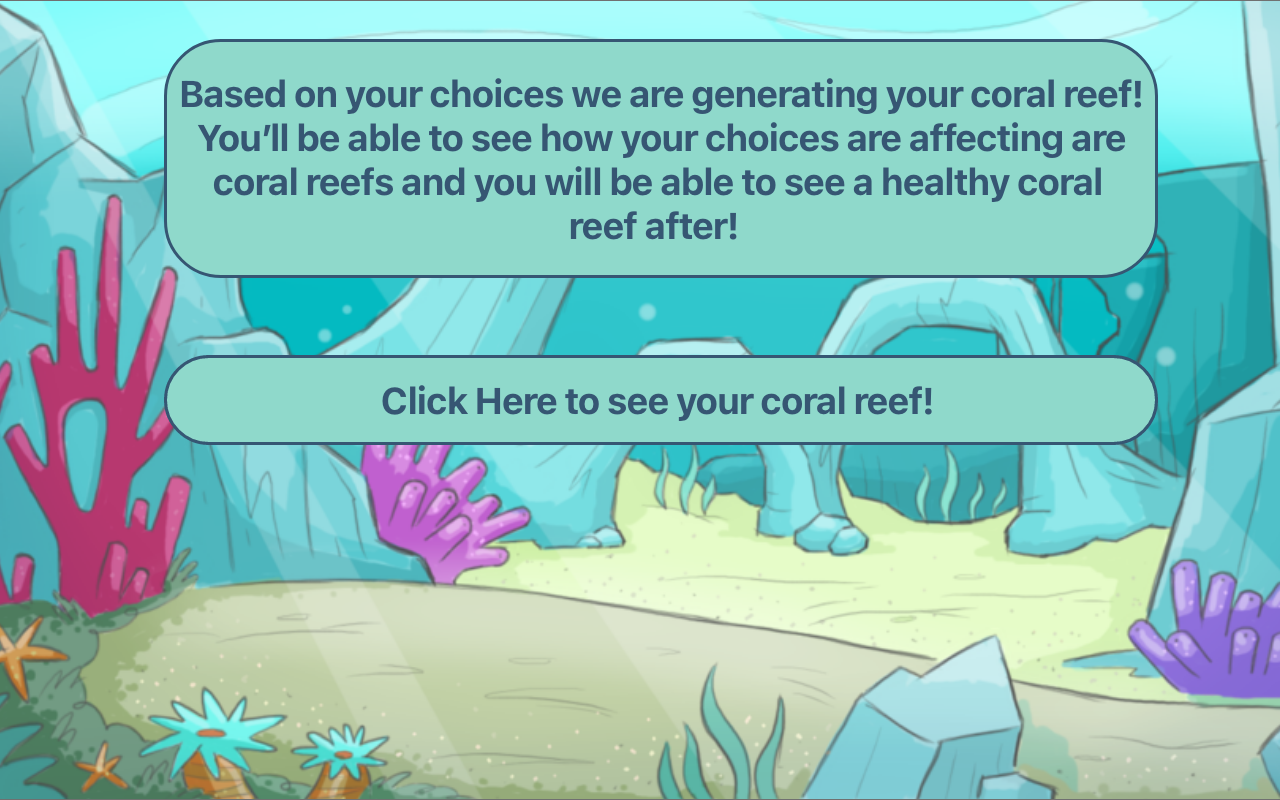
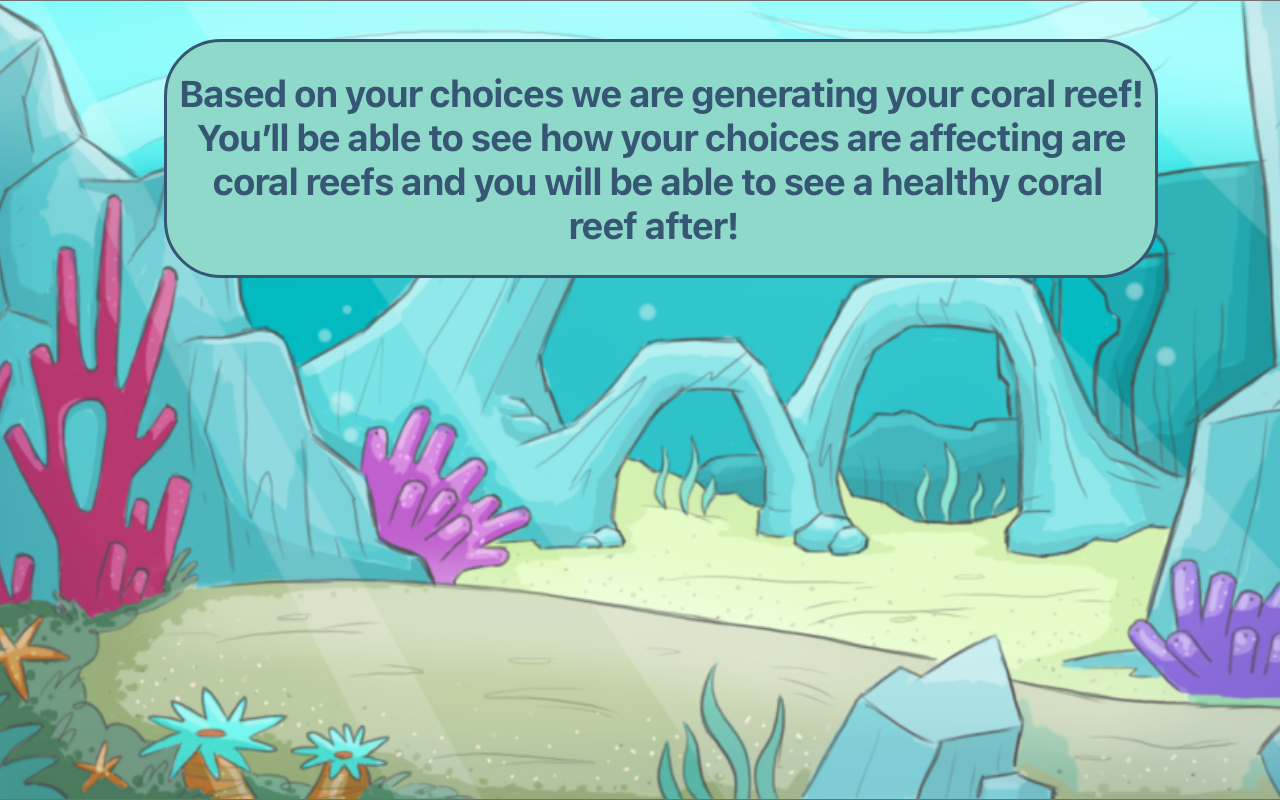
have to add animals next but all buttons are working

Changed region(s): [[0.125, 0.4375, 0.9062, 0.5625]]

diff --git a/sketch.js b/sketch.js
@@ -15,11 +15,17 @@ var images = [];
 var drawFunction;
 
 // keeps track of answers 
-var bleached; 
+var bleached = 0; 
 
 
-// A Clickable object
+//Clickable objects
 var beginButton;
+var coralReefButton; 
+var goToCoralReefButton; 
+var coralImportanceButton; 
+var bleachingButton;
+var helpButton; 
+var backButton;  
 
 // load all images into an array
 function preload() {
@@ -35,6 +41,10 @@ function preload() {
   images[9] = loadImage('assets/Bleached Reef.png');
   images[10] = loadImage('assets/Somewhat bleached reef.png');
   images[11] = loadImage('assets/Healthy reef.png');
+  images[12] = loadImage('assets/Coral Reef.png');
+  images[13] = loadImage('assets/Coral reef importance.png');
+  images[14] = loadImage('assets/Bleaching.png');
+  images[15] = loadImage('assets/How can I help.png');
 }
 
 function setup() {
@@ -43,12 +53,208 @@ function setup() {
   drawFunction = start; 
 
   makeBeginButton();
+  makeCoralReefButton(); 
+  makeGoToCoralReefButton(); 
+  makeCoralImportanceButton();
+  makeBleachingButton();
+  makeHelpButton(); 
+  makeBackButton(); 
 }
 
 // Just draw the button
 function draw() {
   background(128);
   drawFunction(); 
+}
+
+function makeBackButton() {
+
+  // Create the clickable object
+  backButton = new Clickable();
+  
+  backButton.text = "Back";
+  backButton.textColor = "#365673"; 
+  backButton.textSize = 25; 
+
+
+  // // This would give it a white background
+  backButton.color = "#8FD9CB";
+
+  // // set width + height to image size
+  backButton.width = 100;
+  backButton.height = 40;
+
+  // // set to middle of screen, since we are drawing from the corners, we need to make an
+  // // additional calculation here
+  backButton.locate( width * (1/32) , height * (15/16));
+
+  // // Clickable callback functions, defined below
+  backButton.onPress = goToCoralReefButtonPressed;
+  backButton.onHover = beginButtonHover;
+  backButton.onOutside = beginButtonOnOutside;
+}
+
+function makeHelpButton() {
+
+  // Create the clickable object
+  helpButton = new Clickable();
+  
+  helpButton.text = "How can I help?";
+  helpButton.textColor = "#365673"; 
+  helpButton.textSize = 25; 
+
+
+  // // This would give it a white background
+  helpButton.color = "#8FD9CB";
+
+  // // set width + height to image size
+  helpButton.width = 400;
+  helpButton.height = 62;
+
+  // // set to middle of screen, since we are drawing from the corners, we need to make an
+  // // additional calculation here
+  helpButton.locate( width * (23/32) , height * (7/8));
+
+  // // Clickable callback functions, defined below
+  helpButton.onPress = helpButtonPressed;
+  helpButton.onHover = beginButtonHover;
+  helpButton.onOutside = beginButtonOnOutside;
+}
+
+helpButtonPressed = function () {
+  drawFunction = helpPage; 
+}
+
+function makeBleachingButton() {
+
+  // Create the clickable object
+  bleachingButton = new Clickable();
+  
+  bleachingButton.text = "What is bleaching?";
+  bleachingButton.textColor = "#365673"; 
+  bleachingButton.textSize = 25; 
+
+
+  // // This would give it a white background
+  bleachingButton.color = "#8FD9CB";
+
+  // // set width + height to image size
+  bleachingButton.width = 400;
+  bleachingButton.height = 62;
+
+  // // set to middle of screen, since we are drawing from the corners, we need to make an
+  // // additional calculation here
+  bleachingButton.locate( width * (12/32) , height * (7/8));
+
+  // // Clickable callback functions, defined below
+  bleachingButton.onPress = bleachingButtonPressed;
+  bleachingButton.onHover = beginButtonHover;
+  bleachingButton.onOutside = beginButtonOnOutside;
+}
+
+bleachingButtonPressed = function () {
+  drawFunction = whatIsBleaching; 
+}
+
+function makeCoralImportanceButton() {
+
+  // Create the clickable object
+  coralImportanceButton = new Clickable();
+  
+  coralImportanceButton.text = "Why are coral reefs important?";
+  coralImportanceButton.textColor = "#365673"; 
+  coralImportanceButton.textSize = 25; 
+
+
+  // // This would give it a white background
+  coralImportanceButton.color = "#8FD9CB";
+
+  // // set width + height to image size
+  coralImportanceButton.width = 400;
+  coralImportanceButton.height = 62;
+
+  // // set to middle of screen, since we are drawing from the corners, we need to make an
+  // // additional calculation here
+  coralImportanceButton.locate( width * (1/32) , height * (7/8));
+
+  // // Clickable callback functions, defined below
+  coralImportanceButton.onPress = coralImportanceButtonPressed;
+  coralImportanceButton.onHover = beginButtonHover;
+  coralImportanceButton.onOutside = beginButtonOnOutside;
+}
+
+coralImportanceButtonPressed = function () {
+  drawFunction = coralReefImportance; 
+}
+
+function makeGoToCoralReefButton() {
+
+  // Create the clickable object
+  goToCoralReefButton = new Clickable();
+  
+  goToCoralReefButton.text = "Click here to go to the interactive reef";
+  goToCoralReefButton.textColor = "#365673"; 
+  goToCoralReefButton.textSize = 37; 
+
+
+  // // This would give it a white background
+  goToCoralReefButton.color = "#8FD9CB";
+
+  // // set width + height to image size
+  goToCoralReefButton.width = 739;
+  goToCoralReefButton.height = 84;
+
+  // // set to middle of screen, since we are drawing from the corners, we need to make an
+  // // additional calculation here
+  goToCoralReefButton.locate( width/2 - goToCoralReefButton.width/2 , height * (3/4));
+
+  // // Clickable callback functions, defined below
+  goToCoralReefButton.onPress = goToCoralReefButtonPressed;
+  goToCoralReefButton.onHover = beginButtonHover;
+  goToCoralReefButton.onOutside = beginButtonOnOutside;
+}
+
+goToCoralReefButtonPressed = function () {
+  drawFunction = coralReef; 
+}
+
+function makeCoralReefButton() {
+
+  // Create the clickable object
+  coralReefButton = new Clickable();
+  
+  coralReefButton.text = "Click here to see your coral reef!";
+  coralReefButton.textColor = "#365673"; 
+  coralReefButton.textSize = 37; 
+
+
+  // // This would give it a white background
+  coralReefButton.color = "#8FD9CB";
+
+  // // set width + height to image size
+  coralReefButton.width = 994;
+  coralReefButton.height = 90;
+
+  // // set to middle of screen, since we are drawing from the corners, we need to make an
+  // // additional calculation here
+  coralReefButton.locate( width/2 - coralReefButton.width/2 , height * (3/4));
+
+  // // Clickable callback functions, defined below
+  coralReefButton.onPress = coralReefButtonPressed;
+  coralReefButton.onHover = beginButtonHover;
+  coralReefButton.onOutside = beginButtonOnOutside;
+}
+
+coralReefButtonPressed = function () {
+  print('The value of bleached is ' + bleached);
+  if(bleached <= 7 && bleached >= 5){
+    drawFunction = bleachedReef; 
+  } else if(bleached <= 4 && bleached >= 2){
+    drawFunction = somewhatBleachedReef; 
+  }
+  else {
+    drawFunction = healthyReef; 
+  }
 }
 
 function makeBeginButton() {
@@ -128,22 +334,62 @@ questionSeven = function() {
 
 endOfQuestions = function() {
   image(images[8], 0, 0, windowWidth, windowHeight);
+  coralReefButton.draw();
 }
+
+bleachedReef = function() {
+  image(images[9], 0, 0, windowWidth, windowHeight);
+  goToCoralReefButton.draw(); 
+}
+
+somewhatBleachedReef = function() {
+  image(images[10], 0, 0, windowWidth, windowHeight);
+  goToCoralReefButton.draw(); 
+}
+
+healthyReef = function() {
+  image(images[11], 0, 0, windowWidth, windowHeight);
+  goToCoralReefButton.draw(); 
+}
+
+coralReef = function() {
+  image(images[12], 0, 0, windowWidth, windowHeight);
+  coralImportanceButton.draw();
+  bleachingButton.draw(); 
+  helpButton.draw(); 
+}
+
+coralReefImportance = function(){
+  image(images[13], 0, 0, windowWidth, windowHeight);
+  backButton.draw(); 
+}
+
+whatIsBleaching = function(){
+  image(images[14], 0, 0, windowWidth, windowHeight);
+  backButton.draw(); 
+}
+
+helpPage = function(){
+  image(images[15], 0, 0, windowWidth, windowHeight);
+  backButton.draw(); 
+}
+
 
 
 function keyTyped() {
   if (drawFunction === questionOne){
     if(key === 'a'){
       drawFunction = questionTwo;
-      bleached++;  
     }
     else if(key === 'b'){
-      drawFunction = questionTwo;
       bleached++;  
+      print('The value of bleached is ' + bleached);
+      drawFunction = questionTwo;
     }
     else if(key === 'c'){
-      drawFunction = questionTwo;
       bleached++;  
+      print('The value of bleached is ' + bleached);
+      drawFunction = questionTwo;
     }
     else if(key === 'd'){
       drawFunction = questionTwo;
@@ -158,10 +404,11 @@ function keyTyped() {
       drawFunction = questionThree;
     }
     else if(key === 'c'){
-      drawFunction = questionThree;
       bleached++;  
+      drawFunction = questionThree;
     }
     else if(key === 'd'){
+      bleached++;  
       drawFunction = questionThree;
     }
   }
@@ -171,23 +418,23 @@ function keyTyped() {
       drawFunction = questionFour;
     }
     else if(key === 'b'){
+      bleached++;  
       drawFunction = questionFour;
-      bleached++; 
     }
     else if(key === 'c'){
-      drawFunction = questionFour;
       bleached++;  
+      drawFunction = questionFour;
     }
   }
 
   else if (drawFunction === questionFour){
     if(key === 'a'){
-      drawFunction = questionFive;
       bleached++;  
+      drawFunction = questionFive;
     }
     else if(key === 'b'){
+      bleached++;  
       drawFunction = questionFive;
-      bleached++; 
     }
     else if(key === 'c'){
       drawFunction = questionFive;
@@ -202,15 +449,15 @@ function keyTyped() {
       drawFunction = questionSix;
     }
     else if(key === 'c'){
-      drawFunction = questionSix;
       bleached++; 
+      drawFunction = questionSix;
     }
     else if(key === 'd'){
       drawFunction = questionSix;
     }
     else if(key === 'e'){
-      drawFunction = questionSix;
       bleached++; 
+      drawFunction = questionSix;
     }
   }
 
@@ -219,8 +466,8 @@ function keyTyped() {
       drawFunction = questionSeven;  
     }
     else if(key === 'b'){
-      drawFunction = questionSeven;
       bleached++; 
+      drawFunction = questionSeven;
     }
     else if(key === 'c'){
       drawFunction = questionSeven;
@@ -235,12 +482,12 @@ function keyTyped() {
       drawFunction = endOfQuestions;
     }
     else if(key === 'c'){
-      drawFunction = endOfQuestions;
       bleached++; 
+      drawFunction = endOfQuestions;
     }
     else if(key === 'd'){
+       bleached++; 
       drawFunction = endOfQuestions;
-      bleached++; 
     }
   }
 }
